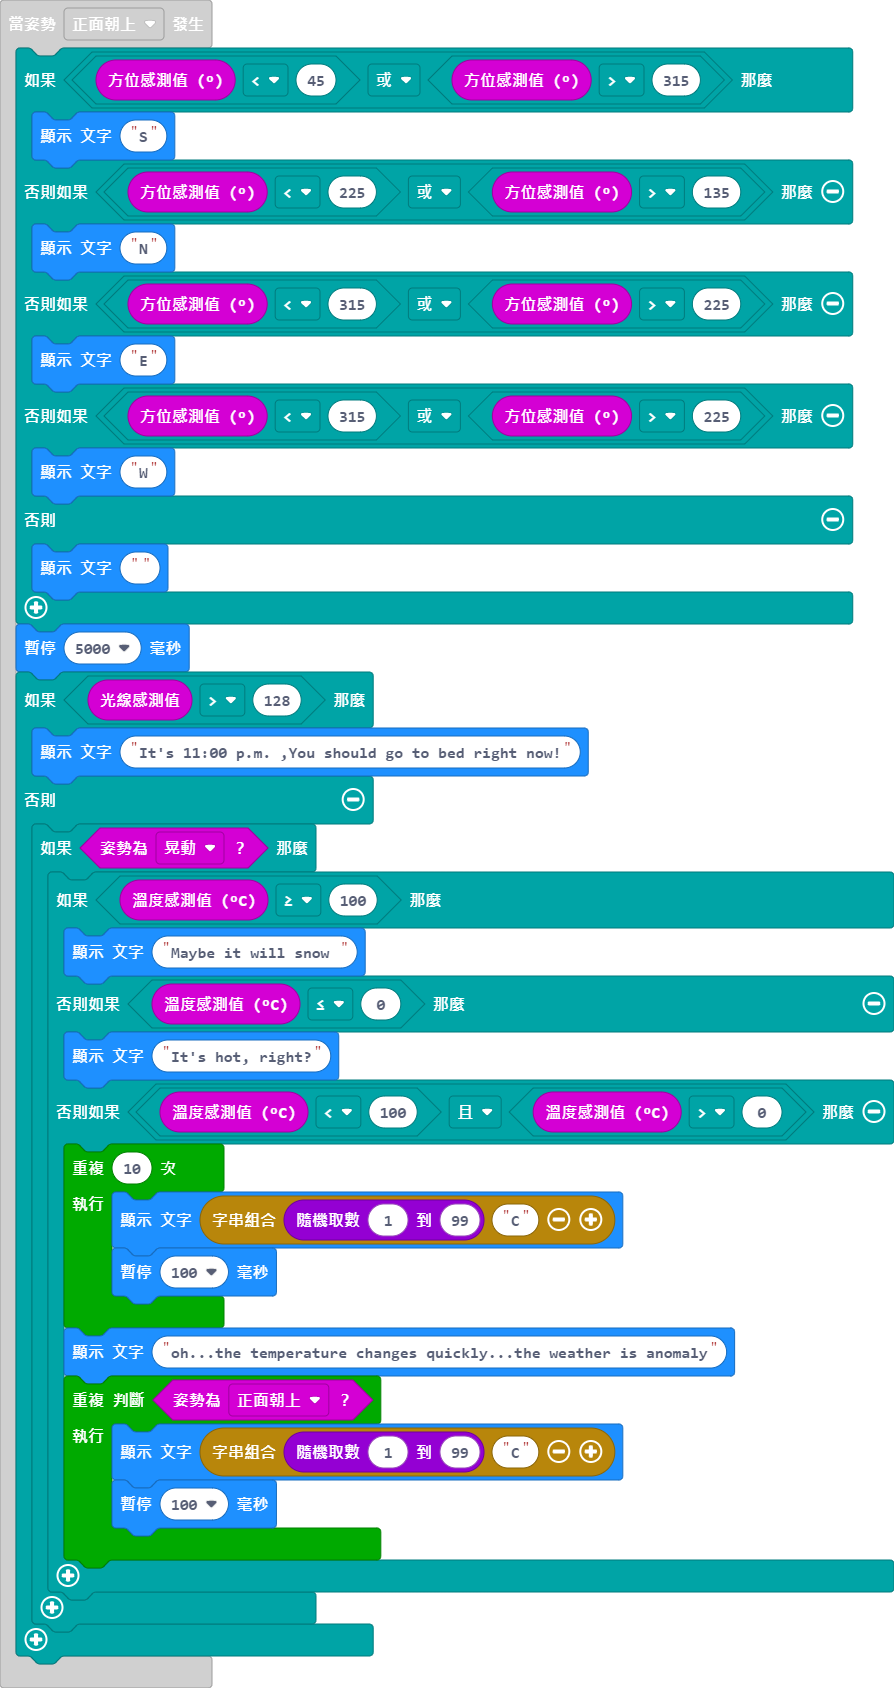
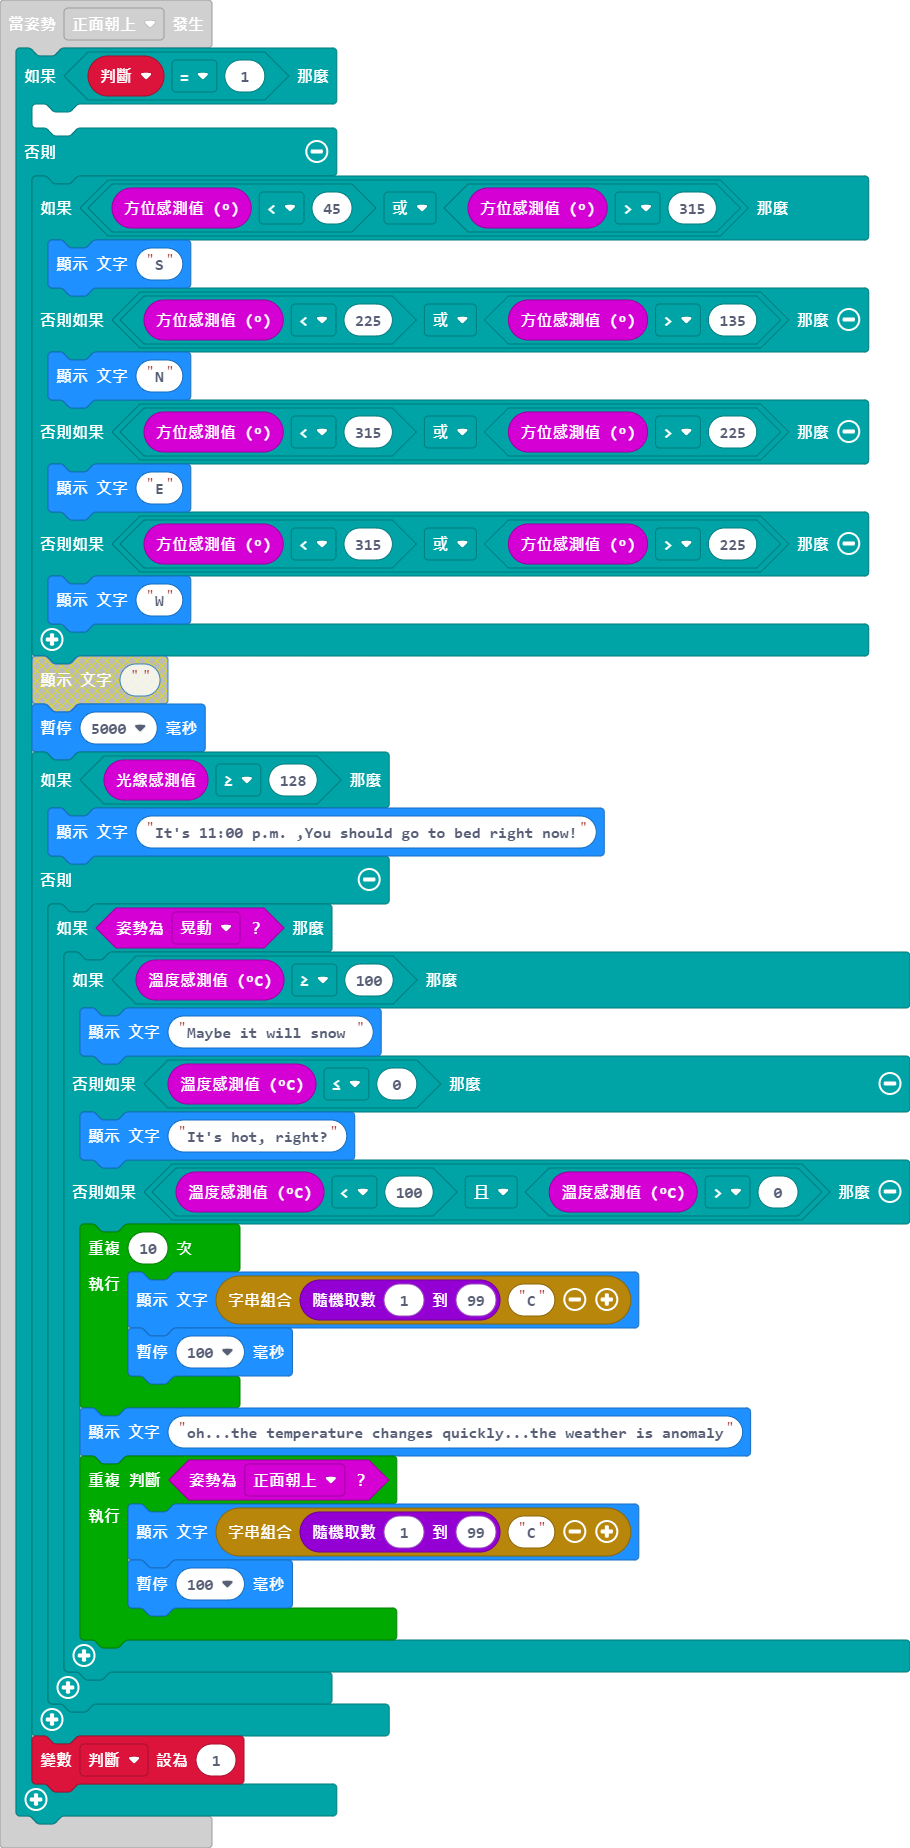
更新 main.blocks, main.ts

diff --git a/main.ts b/main.ts
@@ -2,40 +2,44 @@ input.onGesture(Gesture.ScreenDown, function () {
     basic.showString("" + input.temperature() + "C")
 })
 input.onGesture(Gesture.ScreenUp, function () {
-    if (input.compassHeading() < 45 || input.compassHeading() > 315) {
-        basic.showString("S")
-    } else if (input.compassHeading() < 225 || input.compassHeading() > 135) {
-        basic.showString("N")
-    } else if (input.compassHeading() < 315 || input.compassHeading() > 225) {
-        basic.showString("E")
-    } else if (input.compassHeading() < 315 || input.compassHeading() > 225) {
-        basic.showString("W")
+    if (判斷 == 1) {
+    	
     } else {
-        basic.showString("")
-    }
-    basic.pause(5000)
-    if (input.lightLevel() > 128) {
-        basic.showString("It's 11:00 p.m. ,You should go to bed right now!")
-    } else {
-        if (input.isGesture(Gesture.Shake)) {
-            if (input.temperature() >= 100) {
-                basic.showString("Maybe it will snow ")
-            } else if (input.temperature() <= 0) {
-                basic.showString("It's hot, right?")
-            } else if (input.temperature() < 100 && input.temperature() > 0) {
-                for (let index = 0; index < 10; index++) {
-                    basic.showString("" + randint(1, 99) + "C")
-                    basic.pause(100)
-                }
-                basic.showString("oh...the temperature changes quickly...the weather is anomaly")
-                while (input.isGesture(Gesture.ScreenUp)) {
-                    basic.showString("" + randint(1, 99) + "C")
-                    basic.pause(100)
+        if (input.compassHeading() < 45 || input.compassHeading() > 315) {
+            basic.showString("S")
+        } else if (input.compassHeading() < 225 || input.compassHeading() > 135) {
+            basic.showString("N")
+        } else if (input.compassHeading() < 315 || input.compassHeading() > 225) {
+            basic.showString("E")
+        } else if (input.compassHeading() < 315 || input.compassHeading() > 225) {
+            basic.showString("W")
+        }
+        basic.pause(5000)
+        if (input.lightLevel() >= 128) {
+            basic.showString("It's 11:00 p.m. ,You should go to bed right now!")
+        } else {
+            if (input.isGesture(Gesture.Shake)) {
+                if (input.temperature() >= 100) {
+                    basic.showString("Maybe it will snow ")
+                } else if (input.temperature() <= 0) {
+                    basic.showString("It's hot, right?")
+                } else if (input.temperature() < 100 && input.temperature() > 0) {
+                    for (let index = 0; index < 10; index++) {
+                        basic.showString("" + randint(1, 99) + "C")
+                        basic.pause(100)
+                    }
+                    basic.showString("oh...the temperature changes quickly...the weather is anomaly")
+                    while (input.isGesture(Gesture.ScreenUp)) {
+                        basic.showString("" + randint(1, 99) + "C")
+                        basic.pause(100)
+                    }
                 }
             }
         }
+        判斷 = 1
     }
 })
+let 判斷 = 0
 basic.showString("" + input.temperature() + "C")
 basic.forever(function () {
 	
